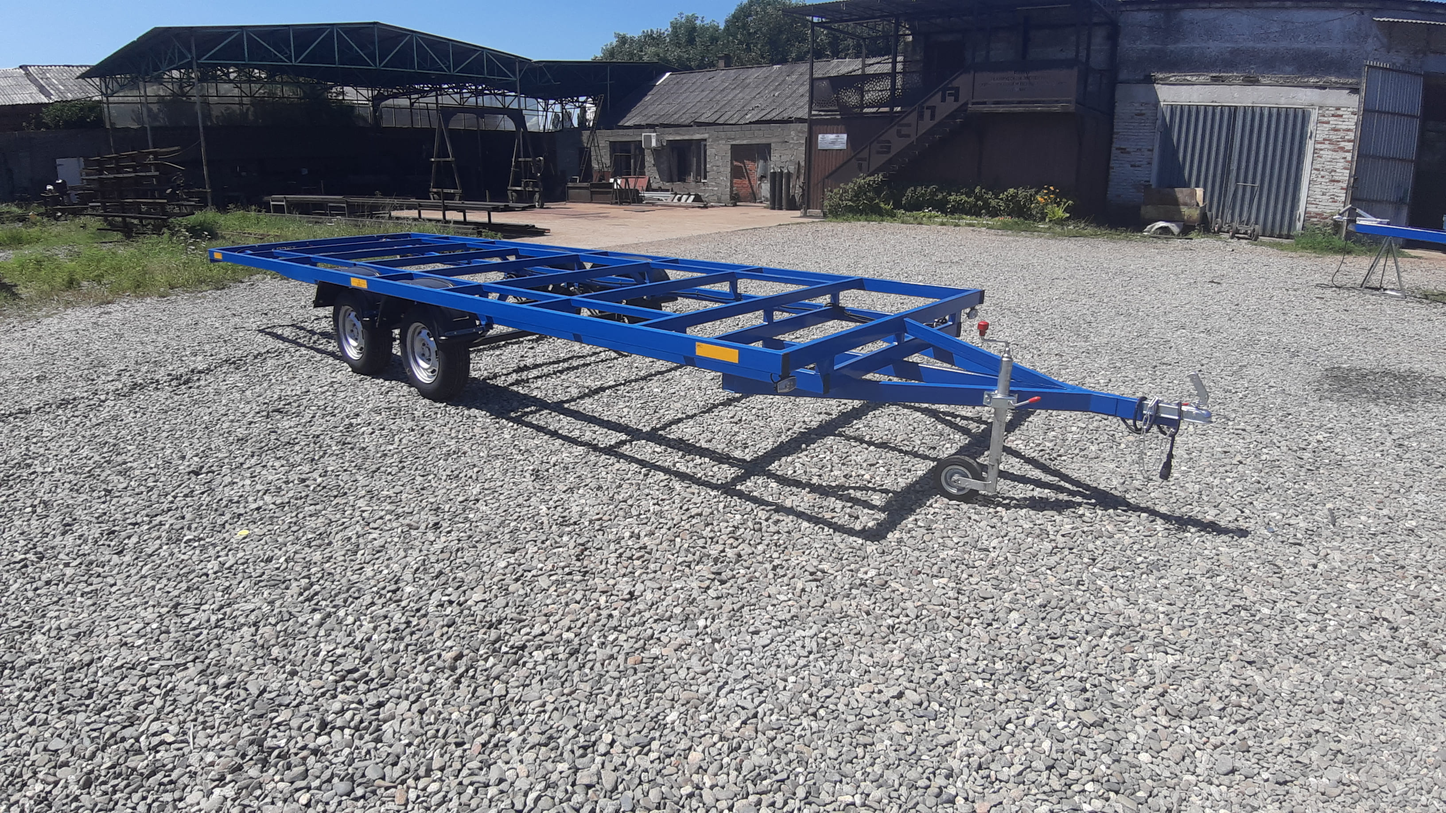
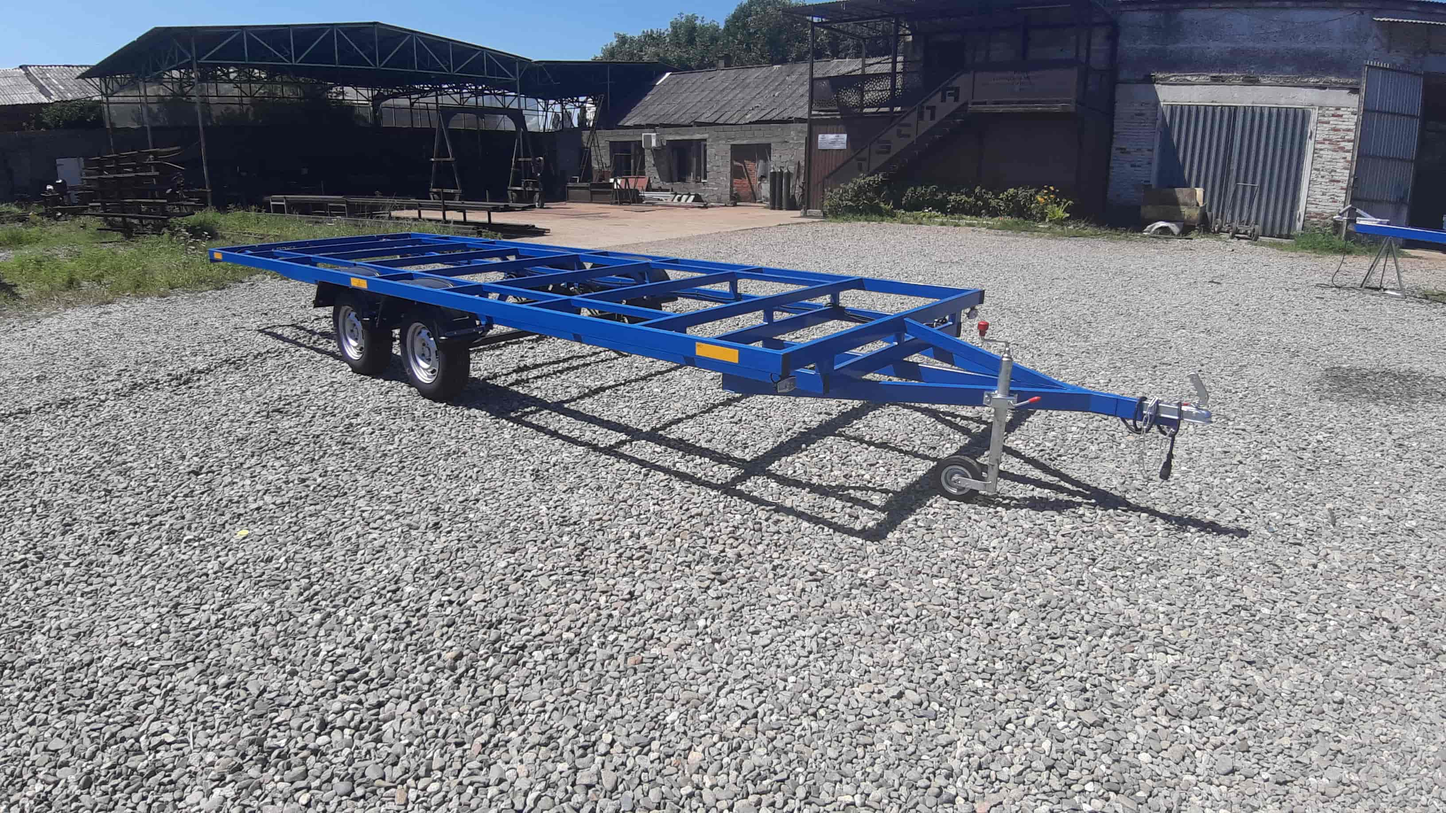
optimization

diff --git a/index.html b/index.html
@@ -75,7 +75,7 @@
                 <div class="services__cards">
                     <div class="services__card">
                         <div class="services__card-img">
-                            <img src="./image/gray_pricep.jpeg" alt="Вин маркировка">
+                            <img src="./image/gray_pricep.jpg" alt="Вин маркировка">
                         </div>
                         <h3 class="services__card-title">Прицепы</h3>
                         <p class="services__card-text">Компания ООО "МОБИ" (г.Майкоп), Производит прицепы на заказ.</p>
@@ -343,7 +343,7 @@
             </div>
         </div>
     </footer>
-    <script src="./js/burger.js"></script>
+    <script defer src="./js/burger.js"></script>
 </body>
 
 </html>

diff --git a/css/tablet.css b/css/tablet.css
@@ -130,4 +130,22 @@ flex-direction: column;
     text-align: center;
 }
 
+.footer__container-copyright{
+    text-align: center;
+    padding-bottom: 10px;
+           }
+           .footer__container-contact{
+            text-align: center;
+           }
+           .footer{
+            padding-top: 0;
+           }
+           .contacts__container {
+            display: flex;
+            align-items: center;
+            flex-direction: column;
+            justify-content: center;
+        }
+        
+
 }

diff --git a/css/style.css b/css/style.css
@@ -22,12 +22,12 @@ html {
 
 .main {
     background-color: #000000;
-    background-image: url(../image/fon.png);
+    background-image: url(../image/fon.avif);
 }
 
 .footer {
     background-color: #000000;
-    background-image: url(../image/fon.png);
+    background-image: url(../image/fon.avif);
 
 }
 
